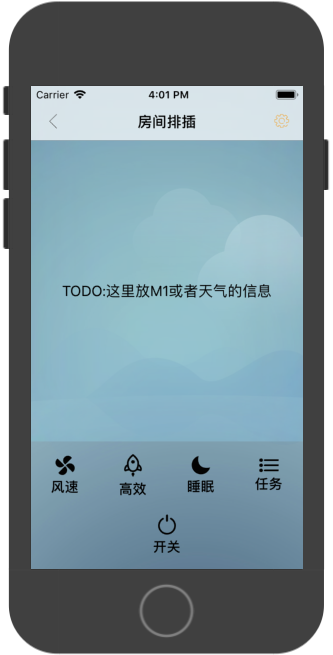
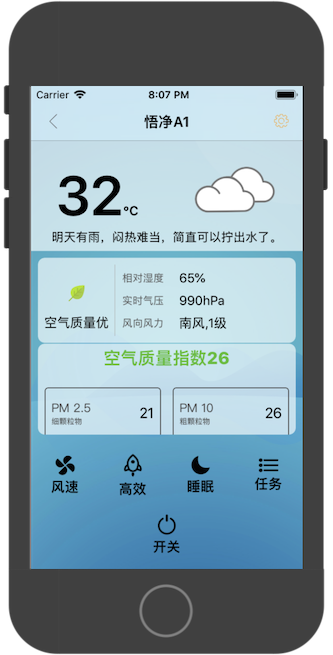
悟净A1添加天气信息

diff --git a/TC1-NG/Controller/Device/A1/A1DeviceMainViewController.swift b/TC1-NG/Controller/Device/A1/A1DeviceMainViewController.swift
@@ -177,7 +177,7 @@ extension A1DeviceMainViewController{
         locationManager.requestLocation(withReGeocode: true, completionBlock: { [weak self] (location: CLLocation?, reGeocode: AMapLocationReGeocode?, error: Error?) in
             if let reGeocode = reGeocode {
                 let freeWeatherApi = URL(string: apiHost + "/api/v2/weather/index")!
-                freeWeatherApi.requestJSON(params: ["app_id":"10001","app_version":"1.1.6","astro":"1","gd_code":reGeocode.adcode ?? "","astro_type":"1","city_en":reGeocode.city ?? ""], callBack: { (json) in
+                freeWeatherApi.requestJSON(params: ["app_id":"10001","app_version":"1.1.6","astro":"1","gd_code":reGeocode.adcode ?? "440106","astro_type":"1","city_en":reGeocode.city ?? "广州市"], callBack: { (json) in
                     guard let weather = json["data"].dictionaryValue["weather"]?.dictionaryValue else {
                         return
                     }
